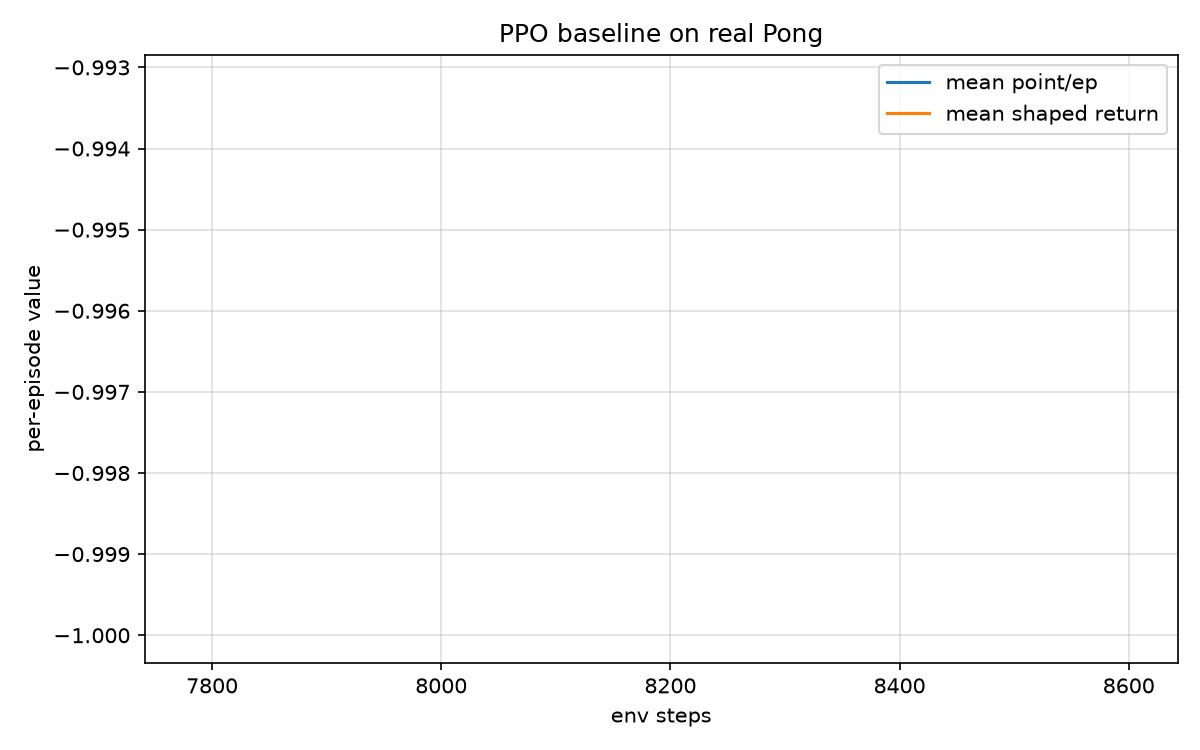
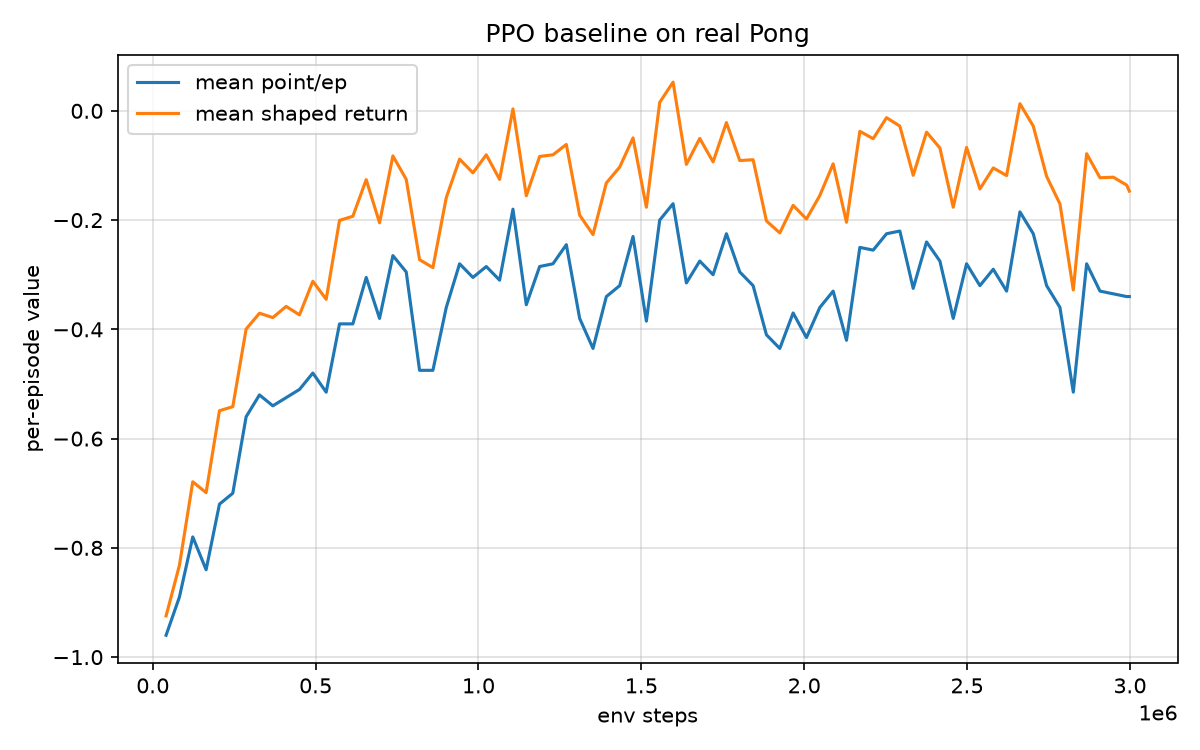
train_ppo: --init-from for continuation; keep 3M checkpoint copy

diff --git a/agents/train_ppo.py b/agents/train_ppo.py
@@ -52,6 +52,8 @@ def main():
     ap.add_argument("--out", default=str(config.CKPT_DIR / "ppo_baseline.pt"))
     ap.add_argument("--steps", type=int, default=None)
     ap.add_argument("--max-seconds", type=int, default=config.CAPS["ppo"])
+    ap.add_argument("--init-from", default=None,
+                    help="checkpoint to continue training from")
     args = ap.parse_args()
 
     config.seed_everything()
@@ -63,6 +65,11 @@ def main():
 
     venv = StackedVecEnv(N, seed=config.SEED)
     policy = PolicyNet().to(dev)
+    if args.init_from:
+        ckpt = torch.load(args.init_from, map_location="cpu", weights_only=True)
+        policy.load_state_dict(ckpt["model"])
+        print(f"[ppo] continuing from {args.init_from} (step {ckpt['step']})",
+              flush=True)
     opt = torch.optim.Adam(policy.parameters(), lr=P["lr"], eps=1e-5)
 
     obs_buf = np.zeros((T, N, config.FRAME_STACK, 64, 64), dtype=np.uint8)
